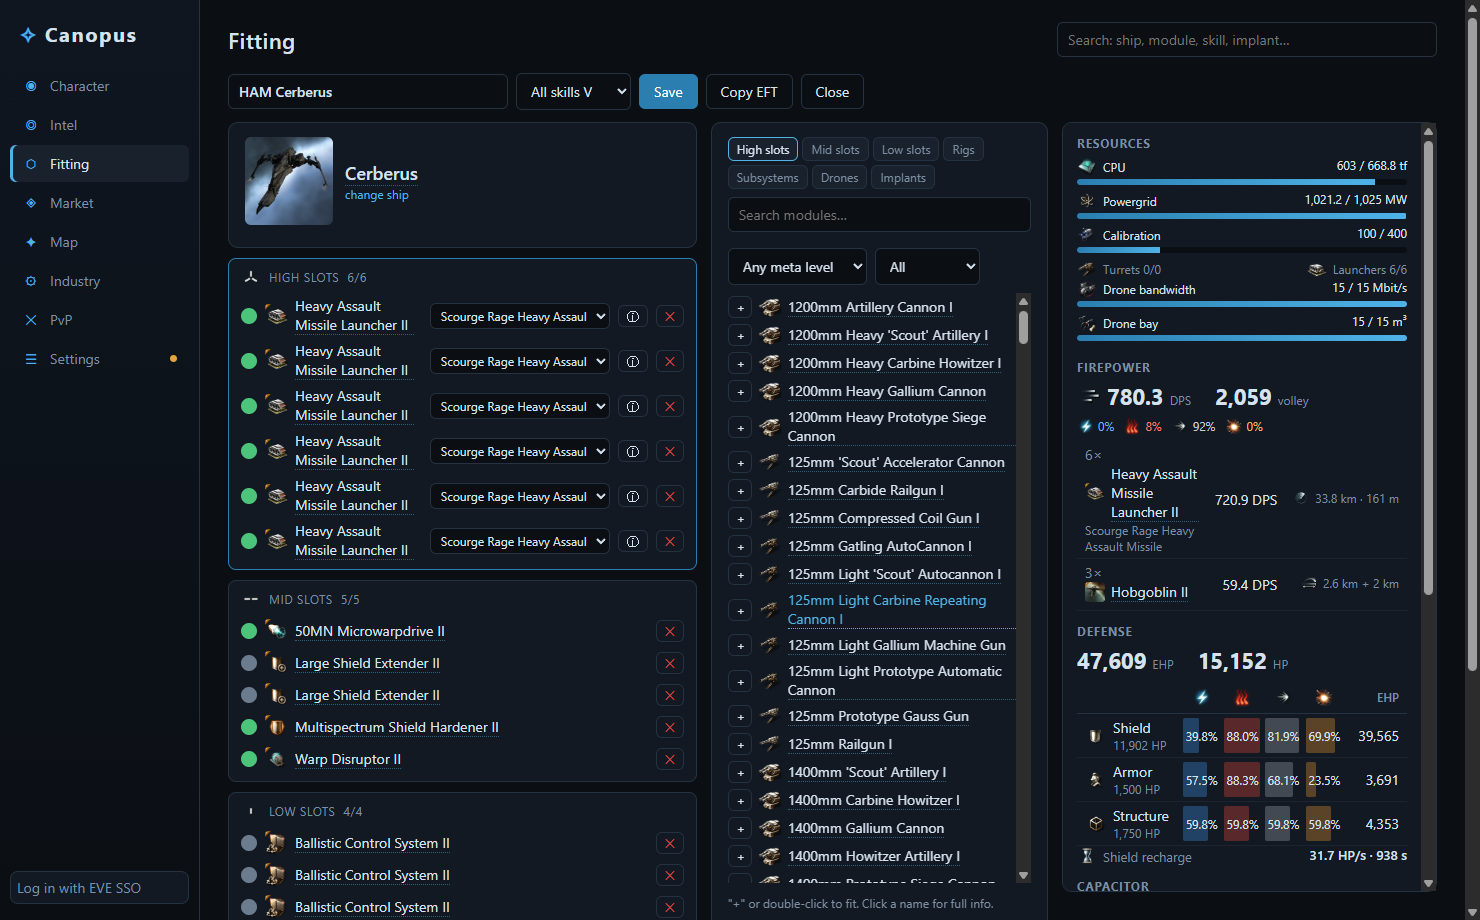
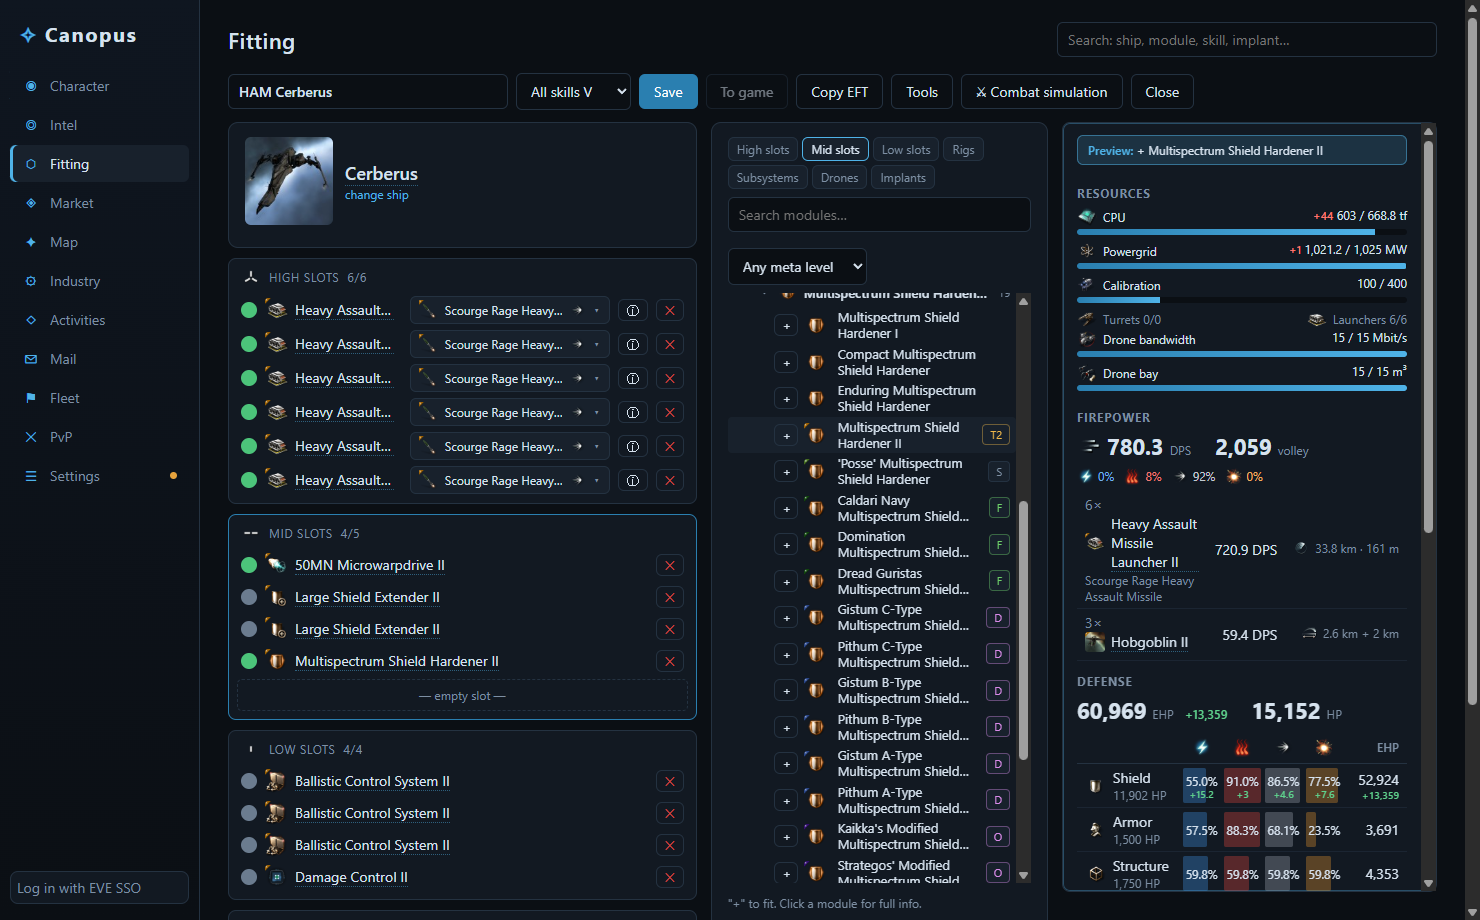
README and screenshots for 0.7.0; English fixes for list titles and hours

diff --git a/src/renderer/src/i18n/dict.ts b/src/renderer/src/i18n/dict.ts
@@ -723,6 +723,8 @@ export const EXACT: Record<string, string> = {
   'Папка логов чата EVE не найдена': 'EVE chat log folder not found',
   'Лог Local не найден — зайдите в игру': 'Local log not found — log into the game',
   'Нет такого предмета': 'No such item',
+  'Топливо': 'Fuel',
+  ': кемп на воротах в': ': camp at the gate to',
   'Без перезарядки': 'Without reload',
   'С перезарядкой': 'With reload',
   'с перезарядкой': 'with reload',
@@ -1205,11 +1207,13 @@ export const EXACT: Record<string, string> = {
 
 /** Dynamic strings: full-match patterns; $1… are translated recursively. */
 export const PATTERNS: [RegExp, string][] = [
+  [/^(\d+) ч$/, '$1 h'],
+  [/^(.+) ед\. на св\. год$/, '$1 units per LY'],
+  [/^— убийств: (\d+), последнее (\d+) мин назад$/, '— kills: $1, last $2 min ago'],
   [/^Опасных в контакты \(−10\): (\d+)$/, 'Dangerous to contacts (−10): $1'],
   [/^Добавить опасных пилотов \((\d+)\) в контакты с ужасной репутацией \(−10\)\?$/, 'Add the dangerous pilots ($1) to contacts with terrible standing (−10)?'],
   [/^Удалить фит «(.+)» из игры\? Это нельзя отменить\.$/, 'Delete the fit "$1" from the game? This can\'t be undone.'],
   [/^Удалить (.+) из контактов\?$/, 'Remove $1 from contacts?'],
-  [/^(.+): (\d+)$/, '$1: $2'],
   [/^Не найдены: (.+)$/, 'Not found: $1'],
   [/^Удалить крыло «(.+)»\? \(только пустое\)$/, 'Delete the wing "$1"? (empty only)'],
   [/^Удалить сквад «(.+)»\? \(только пустой\)$/, 'Delete the squad "$1"? (empty only)'],

diff --git a/src/renderer/src/pages/ActivitiesPage.tsx b/src/renderer/src/pages/ActivitiesPage.tsx
@@ -1,7 +1,7 @@
 import { useEffect, useMemo, useState, type ReactNode } from 'react'
 import { useIntel } from '../IntelContext'
 import { Card, Empty, Stat, Tabs } from '../components/ui'
-import { locale } from '../i18n'
+import { locale, translate } from '../i18n'
 import type { CombatLogEvent } from '../../../shared/ratting'
 import { fmtDate, fmtDuration, fmtIsk, fmtNum } from '../lib/format'
 import { useLang } from '../AppContext'
@@ -205,7 +205,7 @@ function Signatures() {
             <Stat label="Исчезло" value={snap.gone.length} sub={snap.gone.map((g) => g.id).join(', ') || '—'} />
             <Stat
               label="По типам"
-              value={<span className="small">{[...counts.entries()].map(([k, n]) => `${KIND_LABEL[k]} ${n}`).join(' · ') || '—'}</span>}
+              value={<span className="small">{[...counts.entries()].map(([k, n]) => `${translate(KIND_LABEL[k])} ${n}`).join(' · ') || '—'}</span>}
               sub={snap.system}
             />
           </div>

diff --git a/src/renderer/src/pages/character/Contacts.tsx b/src/renderer/src/pages/character/Contacts.tsx
@@ -8,6 +8,7 @@ import { esi, imageUrl, resolveIds, resolveNames } from '../../lib/esi'
 import { addContacts, deleteContacts, editContacts, hasScope, SCOPE } from '../../lib/gameActions'
 import { useAsync } from '../../lib/useAsync'
 import { ScopeHint } from '.'
+import { translate } from '../../i18n'
 
 interface Contact {
   contact_id: number
@@ -96,7 +97,7 @@ export default function Contacts({ id }: { id: number }) {
         <Empty>Контактов нет.</Empty>
       ) : (
         groups.map((g) => (
-          <Card key={g.s} title={`${g.label}: ${g.list.length}`}>
+          <Card key={g.s} title={`${translate(g.label)}: ${g.list.length}`}>
             <table className="table compact">
               <tbody>
                 {g.list.map((c) => (

diff --git a/README.md b/README.md
@@ -5,13 +5,14 @@
 <h1 align="center">Canopus</h1>
 
 <p align="center">
-  A desktop companion for <b>EVE Online</b>: character sheet, a fitting tool with its own dogma engine,
-  automatic Local intel with an in-game overlay, market, map and industry — in one Windows app.
+  A free desktop companion for <b>EVE Online</b>: a fitting tool with its own dogma engine and a combat simulator,
+  Local and intel-channel monitoring, route safety, wormholes, market arbitrage, industry and your whole character — in one Windows app.
 </p>
 
 <p align="center">
-  <a href="../../releases/latest"><b>Download for Windows</b></a> ·
-  English / Русский interface
+  <a href="../../releases/latest"><b>⬇ Download for Windows</b></a> ·
+  English / Русский interface ·
+  <a href="LICENSE">MIT</a>
 </p>
 
 ![Fitting](docs/screenshots/fitting.png)
@@ -19,40 +20,73 @@
 ## Features
 
 ### Fitting tool
-- Dogma engine driven by CCP's Static Data Export: skills, hull bonuses, modules (offline / online / active / overheated), charges, drones, implants and stacking penalties.
-- Resources, firepower with damage profile, EHP and resistances per layer, active tank, capacitor stability, navigation and targeting.
-- Calculate with **all skills V** or with **your character's skills**, with the missing skills and their training time.
-- Import / export EFT, save fits, open any fit from your character, current ship, a killmail or Show Info.
-- Checked against the in-game fitting window: identical DPS, volley and EHP for a real fit.
+- Dogma engine driven by CCP's Static Data Export: skills, hull and role bonuses, subsystems, modules (offline / online / active / overheated), charges, drones, implants and stacking penalties.
+- Ship browser grouped by class and race, and a module browser grouped like the in-game market (shield, armor, propulsion, turrets by type…) with T1 / T2 / faction / deadspace / officer badges. Only modules that actually fit the ship are offered; turret and launcher hardpoints are enforced.
+- **Live preview**: hover a module in the list and every stat updates in place with the difference highlighted — compare without fitting.
+- Ammo picker grouped by tech level with damage-type icons.
+- Firepower with damage profile; hover the DPS to see DPS with reload and the split between weapons and drones. EHP and resistances per layer, active tank, capacitor stability, navigation and targeting.
+- Calculate with **all skills V** or with **your character's skills**: what to train and how long it takes.
+- Fit cost at Jita prices, side-by-side fit comparison and **popular fits from zKillboard** for the same hull.
+- Import / export EFT, open fits from your character, current ship, a killmail or Show Info — and **save a fit straight to your in-game fittings**.
 
-### Show Info for everything
-Every ship, module, skill, implant and item is clickable and opens a panel like the in-game Show Info: description and traits, dogma attributes with the game's icons, a readable **Effects** tab ("when active: shield resistances +32.5%"), the skill requirement tree with your levels and training time, what a skill unlocks, masteries, variations, blueprints, reprocessing and hub prices.
+| Popular fits | Show Info |
+|---|---|
+| ![Popular fits](docs/screenshots/fit-popular.png) | ![Show Info](docs/screenshots/show-info.png) |
 
-![Show Info](docs/screenshots/show-info.png)
+### Combat simulator
+A separate window that pits your fit against an opponent — any saved fit, one of your in-game fits, or a bare hull.
+Drag the ships and velocity vectors on an interactive map (or pick orbiting, head-on, kiting…), switch ammo for both sides,
+and see applied DPS for every weapon with the reason it's reduced (tracking, falloff, explosion velocity / radius),
+damage per tank layer against local repairs, and who dies first.
 
-### Intel: automatic Local scan and overlay
-- Press **Ctrl+A, Ctrl+C** in the Local window — Canopus picks the list up from the clipboard and checks every pilot: corporation and alliance, age, kills and losses, recent activity, danger ratio, what they fly.
-- Current system is read from the Local chat log; new arrivals are highlighted, leavers listed, and a Windows notification with sound fires when a dangerous pilot enters.
-- D-scan and fleet window analysis: ships by class and type, on-grid count, warnings for interdictors, bombers, recons, logistics and capitals.
-- Intel channel monitor: pick your alliance's intel channels and Canopus follows their chat logs, finds systems (including shorthand like "1DQ") and ships in every report and shows how many stargate jumps away they are. Reports within your chosen range trigger a notification; "clr" / "nv" are recognised as all-clear.
-- An always-on-top overlay for windowed / borderless mode (**Ctrl+Shift+L** show / hide, **Ctrl+Shift+K** click-through).
+![Combat simulator](docs/screenshots/combat.png)
 
-| Local scan | D-scan | Overlay |
+### Intel
+- **Local scan** — press **Ctrl+A, Ctrl+C** in the Local window: every pilot is checked for corporation, alliance, age, kills and losses, danger ratio and favourite ships. New arrivals are highlighted and a Windows notification fires when a dangerous pilot enters.
+- **Intel channels** — Canopus follows your alliance's intel chat logs, recognises systems (including shorthand like "1DQ") and ships in every report and shows how many jumps away they are; reports within your range raise an alert, "clr" / "nv" mean all clear.
+- **D-scan and fleet window** analysis with warnings for interdictors, bombers, recons, logistics and capitals.
+- An always-on-top **overlay** for windowed / borderless mode (**Ctrl+Shift+L** show / hide, **Ctrl+Shift+K** click-through).
+
+| Intel channels | Local scan | Overlay |
 |---|---|---|
-| ![Local](docs/screenshots/intel-local.png) | ![D-scan](docs/screenshots/intel-dscan.png) | ![Overlay](docs/screenshots/overlay.png) |
+| ![Intel channels](docs/screenshots/intel-channels.png) | ![Local](docs/screenshots/intel-local.png) | ![Overlay](docs/screenshots/overlay.png) |
 
-### Character
-Overview, skill queue, all skills, attributes with implants, jump clones, current ship fit, saved fittings, assets with Jita valuation, blueprints, wallet journal and transactions, contracts, loyalty points, standings and jump fatigue (via EVE SSO).
+### Map and travel
+- **Route safety** — every system on the route with security, ship / pod kills in the last hour and gate camps from zKillboard; set the destination in the game with one click.
+- **Jump planner** for capitals and black ops: range with your skills, fuel per jump and jump fatigue along a chain of cyno jumps.
+- **Wormholes** — look up any hole type (class, lifetime, mass, max jump mass) and how many of your ships can pass. Thera / Turnur connections from EVE-Scout.
 
-### Market, map, industry, PvP
-- **Market** — prices in Jita, Amarr, Dodixie, Rens and Hek, the Jita order book, 90-day history, loot appraisal (English or Russian names) and your orders with outbid detection.
-- **Map** — routes with ship / pod kills and jumps per system for the last hour, "set destination" in the game client, Thera / Turnur connections from EVE-Scout.
-- **Industry** — manufacturing and reaction calculator (ME / TE, structure bonus, system cost index, taxes, SCC surcharge), industry jobs and planetary colonies with extractor timers.
-- **PvP** — zKillboard stats and recent fights; click a fight to see the victim's fit and the attackers.
-
-| Market | Route | Industry |
+| Route safety | Jump planner | Wormholes |
 |---|---|---|
-| ![Market](docs/screenshots/market.png) | ![Map](docs/screenshots/map-route.png) | ![Industry](docs/screenshots/industry.png) |
+| ![Route safety](docs/screenshots/route-safety.png) | ![Jump planner](docs/screenshots/jump-planner.png) | ![Wormholes](docs/screenshots/wormholes.png) |
+
+### Activities
+- **Signatures** — copy the probe scanner and Canopus remembers the signatures per system, marks new and vanished ones and tells what to expect at each site.
+- **Ratting** — bounties from the wallet, damage dealt and received from the combat log.
+- **Abyss** — a run log with results by tier and by ship.
+
+![Signatures](docs/screenshots/signatures.png)
+
+### Market and industry
+- Market browser with the in-game category tree, prices in Jita, Amarr, Dodixie, Rens and Hek, the order book and 90-day history.
+- **Arbitrage between trade hubs** by market category, with taxes, margin, volume and profit per m³.
+- Loot appraisal (English or Russian names), LP store, your orders with outbid detection.
+- Manufacturing and reaction calculator (ME / TE, structure bonuses, system cost index, taxes), industry jobs and planetary colonies with extractor timers.
+
+| Arbitrage | Market | Industry |
+|---|---|---|
+| ![Arbitrage](docs/screenshots/arbitrage.png) | ![Market](docs/screenshots/market.png) | ![Industry](docs/screenshots/industry.png) |
+
+### Character, mail and fleet
+- Overview, skill queue and a **skill planner**, attributes with implants, jump clones, assets with Jita valuation, blueprints, wallet, contracts, loyalty points, standings and jump fatigue.
+- **Contacts**, **calendar**, **EVE mail** and **fleet** management — invite, move and kick members.
+- **Tray and Windows notifications** for every character: skill queue running out, PI extractors, finished industry jobs, jump fatigue, outbid market orders, jump clone ready.
+- zKillboard statistics and recent fights with the victim's fit.
+
+### In-game actions (optional)
+With your permission Canopus acts in the game through CCP's official ESI: opens the market, contract or info window,
+sets the destination, saves fits, sends mail, edits contacts, manages the fleet and answers calendar events.
+These permissions are requested only when you press **Settings → Allow in-game actions**; otherwise Canopus is read-only.
 
 ## Install
 
@@ -63,17 +97,17 @@ Download from [Releases](../../releases/latest):
 
 The builds are not code-signed yet, so Windows SmartScreen may warn on first launch: click **More info → Run anyway**.
 
-On first start Canopus downloads CCP's Static Data Export (~95 MB) and builds a local database; it updates itself when CCP publishes a new build. Game icons are fetched from CCP's resource server on demand and cached.
+On first start Canopus downloads CCP's Static Data Export (~95 MB) and builds a local database; it updates itself when CCP publishes a new build. Game icons are fetched from CCP's image server on demand and cached.
 
 ## Getting started
 
-1. **Settings → Add character (EVE SSO)** and log in in your browser. Canopus uses EVE SSO with PKCE; tokens are stored encrypted with Windows DPAPI.
+1. **Log in with EVE SSO** (bottom left) — CCP's login page opens inside the app. Canopus uses EVE SSO with PKCE; tokens are stored encrypted with Windows DPAPI and never leave your PC.
 2. **Settings → Language** switches the interface and item names between English and Russian.
-3. For intel, run EVE windowed or borderless and copy Local with **Ctrl+A, Ctrl+C**.
+3. For intel, run EVE windowed or borderless, copy Local with **Ctrl+A, Ctrl+C** and choose your intel channels.
 
 ## Fair play
 
-Canopus only uses official and player-visible data: CCP's ESI and SDE, the chat logs the game writes to your Documents folder, and what you copy to the clipboard yourself. It never reads the game client's memory or screen and never automates input — the same approach as Pyfa or RIFT.
+Canopus only uses official and player-visible data: CCP's ESI and SDE, the chat and game logs the client writes to your Documents folder, and what you copy to the clipboard yourself. It never reads the game client's memory or screen and never automates input — the same approach as Pyfa or RIFT.
 
 ## Data sources
 
@@ -92,9 +126,11 @@ npm run dist       # installer and portable .exe in release/
 
 Stack: Electron, electron-vite, React, TypeScript.
 
-- `src/main` — Electron main process: HTTP cache, EVE SSO, SDE pipeline (`sde/`), dogma engine (`dogma/`), intel log and clipboard watchers, overlay, icon protocol.
+- `src/main` — Electron main process: HTTP cache, EVE SSO, SDE pipeline (`sde/`), dogma engine and combat model (`dogma/`), log and clipboard watchers, notifications, overlay.
 - `src/renderer` — React UI; `i18n/` translates the interface on render.
 - `src/shared` — types shared across processes.
+
+Bug reports and ideas are welcome in [Issues](../../issues).
 
 ## License
 
